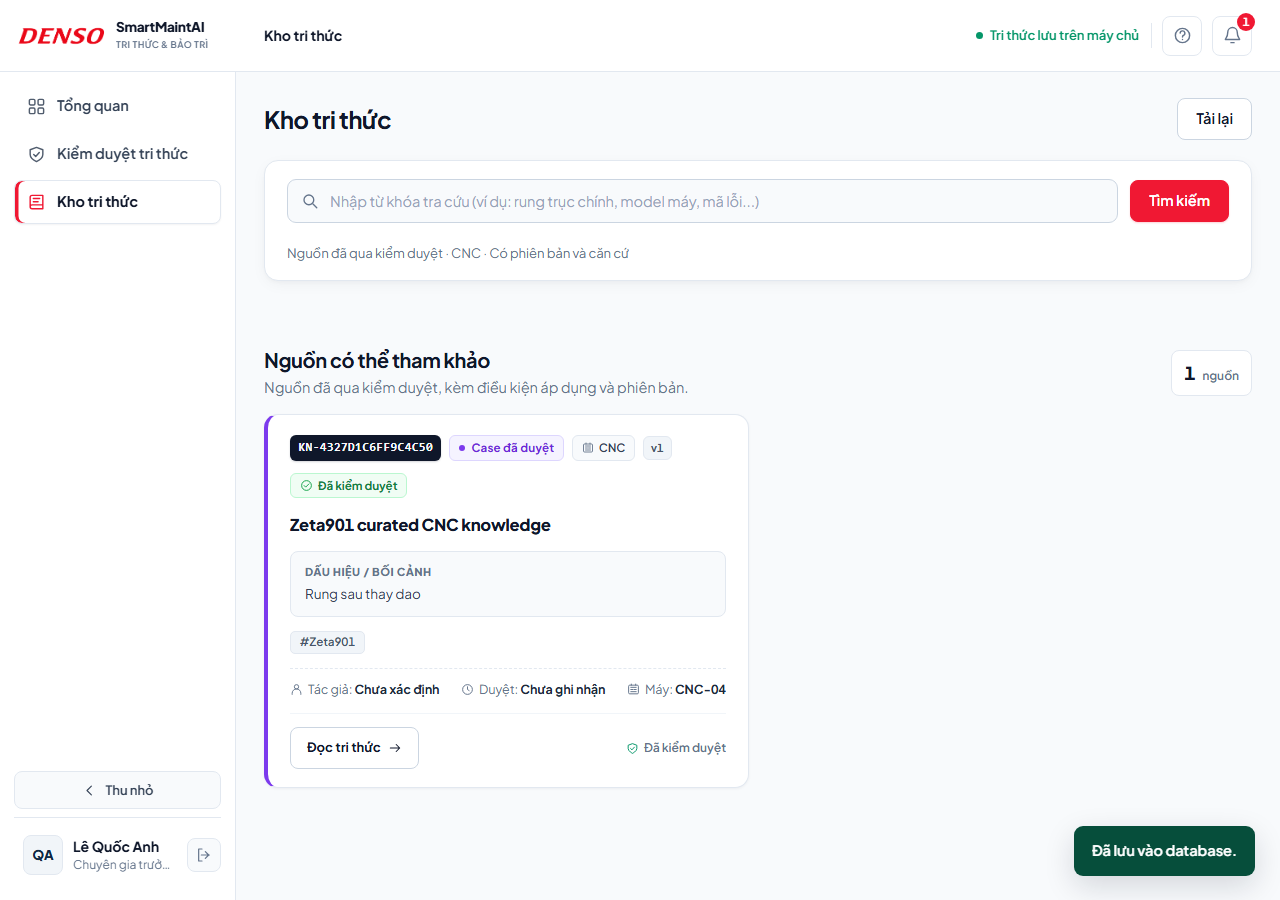
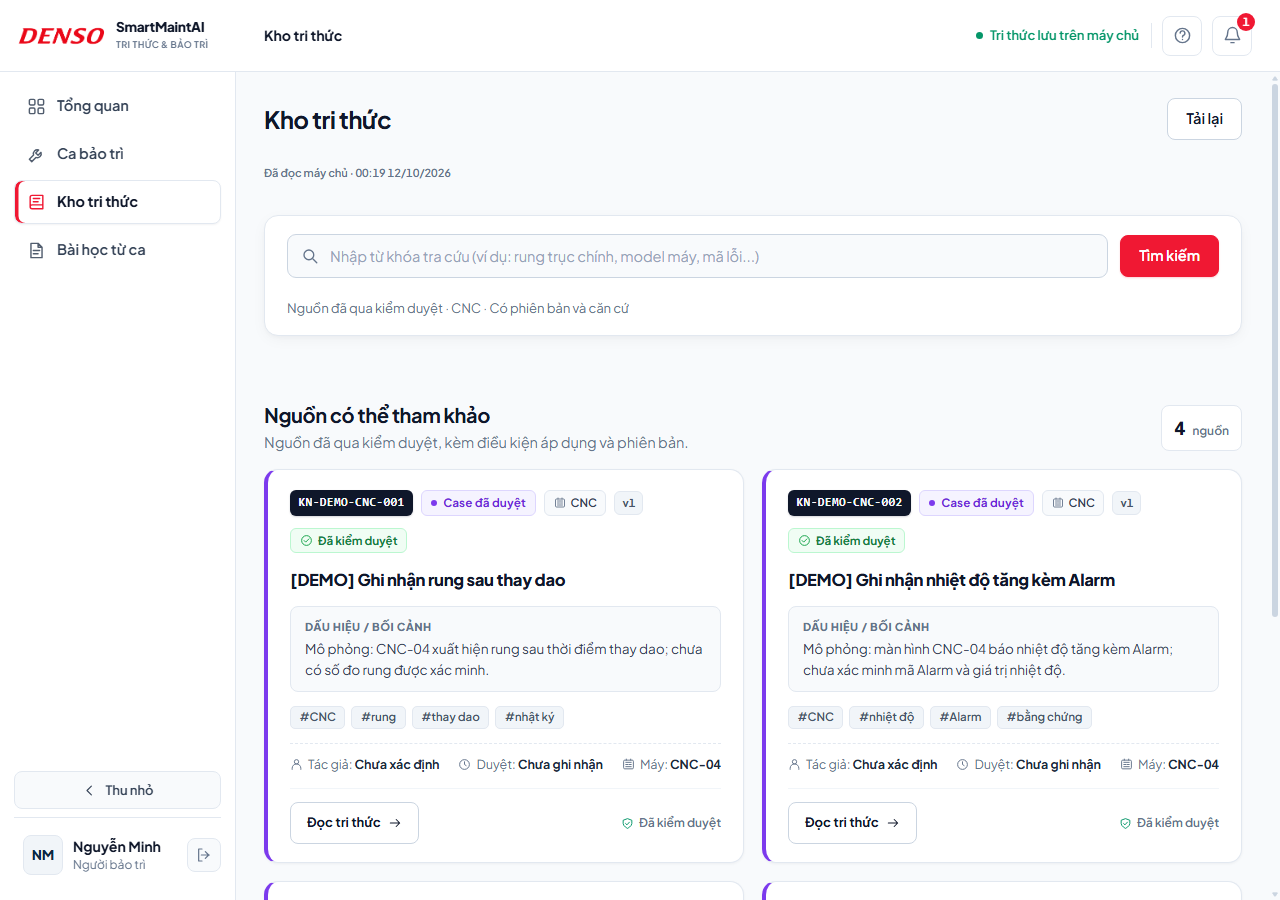
Align project documentation and screenshots with current frontend

diff --git a/backend/tools/browser_smoke.py b/backend/tools/browser_smoke.py
@@ -441,10 +441,12 @@ def main():
             wait("!!document.querySelector('[data-page=proposal][data-id=DP-DEMO-CNC-003]')")
             for number in ['001', '002', '003']:
                 assert evaluate("!!document.querySelector('[data-page=proposal][data-id=DP-DEMO-CNC-"+number+"]')")
+            documentation_screenshot('case-lessons.png')
             navigate("SM.go('proposal','DP-DEMO-CNC-001')")
             wait("document.querySelector('#knowledge-api-view')?.textContent.includes('RP-DEMO-CNC-001')")
             navigate("SM.go('library')")
             wait("document.querySelectorAll('.library-card').length===4")
+            documentation_screenshot('knowledge-library.png')
             evaluate("const f=document.querySelector('[data-form=database-library-search]');f.querySelector('[name=query]').value='Alarm';f.requestSubmit()")
             assert evaluate("document.querySelectorAll('.library-card').length===1")
             assert evaluate("document.querySelector('.library-card').textContent.includes('nhiệt độ')")

diff --git a/backend/README.md b/backend/README.md
@@ -1,127 +1,70 @@
-# Backend SmartMaint — API cho bản demo
+# Backend DENSO SmartMaintAI
 
-Khởi động local hoặc hosted tự bổ sung một lần **3 bài học từ ca và 3 nguồn tri thức đã xuất bản**, kèm báo cáo nguồn mô phỏng. Xem [dữ liệu mẫu](../docs/guides/DENSO-DEMO-SAMPLE-DATA.md). Lệnh `py -m backend.demo_knowledge` thêm mẫu vào database đã khởi tạo theo cấu hình hiện tại, giữ nguyên dữ liệu có sẵn.
+FastAPI phục vụ frontend mới và API cùng origin. Giao diện chính ở `/`; `/workspace` dành cho chẩn đoán và phục hồi phiên. Xem [README dự án](../README.md), [bản đồ frontend](../frontend/README.md) và [bàn giao hiện tại](../docs/guides/DEMO-HANDOVER.md).
 
-Tình trạng hiện tại: [bàn giao demo](../docs/guides/DEMO-HANDOVER.md). Xem [README dự án](../README.md) để cài trên máy mới. Dùng `Cai-dat-demo.cmd` rồi `Chay-demo.cmd`; máy chủ mặc định ở cổng 8001. Các mô tả theo số bước bên dưới ghi lại quá trình triển khai trước đây.
+## Chạy từ thư mục gốc
 
-RAG hiện có [Gemini Embedding + sqlite-vec + Gemini](../docs/guides/DENSO-RAG-VECTOR-GEMINI.md). Ứng dụng đọc `.env`; cần điền GEMINI_API_KEY để dùng API thật. `Chay-demo.cmd` chuẩn bị chỉ mục khi có key; `py -m backend.rag.check` kiểm tra live rõ ràng. Các ghi chú bước 6–9 bên dưới mô tả chế độ demo từ khóa/mẫu trước khi bổ sung vector.
-
-Trang chính `/` giữ giao diện SmartMaint gốc. Tổng quan, hồ sơ công việc, hỗ trợ/xác nhận, hồ sơ tham gia, đề xuất/kiểm duyệt và kho tri thức đã dùng API/SQLite theo quyền. PM và thông báo prototype còn mô phỏng. Hồ sơ cũ trong localStorage được giữ riêng để xem/nhập, không tự đồng bộ sang database. Workspace độc lập được giữ tại `/workspace`. Dùng `py -m backend.tools.browser_smoke --original-ui` để kiểm tra giao diện tích hợp trên DB riêng.
-
-Bổ sung [4 hồ sơ CNC và 6 tài liệu tra cứu mẫu](../docs/guides/DENSO-DEMO-SAMPLE-DATA.md). Lệnh `py -m backend.manage add-samples` thêm hồ sơ vào DB đã init-demo, không ghi đè hồ sơ hiện có. Bộ nguồn tra cứu tổng cộng 14 tài liệu.
-
-Demo hiện bắt đầu bằng **Chọn vai trò → Vào hệ thống**, không cần mật khẩu. Người bảo trì dùng tài khoản mẫu `minh`, chuyên gia dùng `hai`, chuyên gia trưởng dùng `anh`. Quyền và dữ liệu hiện có được giữ nguyên; `anh` chưa được cấp hồ sơ BM-26028. Nút **Đổi vai trò** quay về màn hình chọn. Mỗi lần tải trang sẽ hiện màn hình chọn vai trò.
-
-Để bật lại màn hình đăng nhập mật khẩu, đặt `$env:SMARTMAINT_DEMO_ROLE_SELECTION='0'` trước khi khởi động backend. Chế độ chọn vai trò không cần mật khẩu chỉ dành cho demo local; khi tắt, API chọn vai trò trả 404. Mật khẩu cũ không bị thay đổi.
-
-Bước 9: [báo cáo 10 câu hỏi và kịch bản demo 5 phút](../docs/history/DENSO-STEP9-DEMO-REVIEW.md). Chạy `py -m backend.tools.demo_check` để kiểm tra lại chế độ mẫu qua API trên DB riêng; không gọi Gemini và không sửa dữ liệu hiện có.
-
-Bước 8 thêm **Trả lời từ nguồn**: mặc định trích tài liệu theo mẫu, chưa dùng AI. Có adapter Gemini tùy chọn qua biến môi trường; chưa có cấu hình model thật trong môi trường hiện tại. Xem [hướng dẫn và giới hạn bước 8](../docs/history/DENSO-STEP8-ANSWERS.md).
-
-**Ưu tiên hiện tại: demo đơn giản.** Giữ SQLite, dữ liệu mẫu và HozenDX mock; chưa cần PostgreSQL, SSO hoặc tích hợp thật. Xem [phạm vi và thứ tự làm tiếp cho demo](../docs/history/DENSO-DEMO-PLAN.md). Luồng chính dùng hồ sơ CNC có sẵn; các trường bổ sung được thu gọn.
-
-Bước 7 có ô **Tra cứu tài liệu CNC mẫu** trong hồ sơ: tìm từ khóa trên bộ nguồn mô phỏng, đọc đoạn trích và mở toàn bộ tài liệu đúng phiên bản. Xem [hướng dẫn/API tra cứu](../docs/history/DENSO-STEP7-SEARCH.md). Chưa dùng LLM.
-
-Backend demo CNC có quyền theo máy/hồ sơ, adapter HozenDX mock, dữ liệu có phiên bản, nhật ký nhiều đợt, báo cáo và tri thức được duyệt. RAG hiện có Gemini và vector tùy cấu hình; chưa có kết nối HozenDX/AIHO thật. Chi tiết schema ban đầu và migration tại [mô hình dữ liệu](../docs/design/DENSO-STEP5-DATA-MODEL.md); luồng hiện tại nằm trong tài liệu bàn giao.
-
-## Chạy trên Windows / PowerShell
-
-Chạy trong `D:\demo\demo`. Máy hiện tại dùng `py` (lệnh `python` trỏ tới alias Microsoft Store).
+Trên Windows, chạy `Cai-dat-demo.cmd` lần đầu, sau đó `Chay-demo.cmd`. Hoặc:
 
 ```powershell
 py -m venv .venv
 .\.venv\Scripts\python.exe -m pip install -r backend/requirements.txt
-.\.venv\Scripts\python.exe -m backend.manage init-demo
-.\.venv\Scripts\python.exe -m uvicorn backend.main:app --host 127.0.0.1 --port 8000
+.\.venv\Scripts\python.exe -m backend.setup_demo
+.\.venv\Scripts\python.exe -m backend.launch_demo
 ```
 
-Nếu dùng các thư viện Python đã có sẵn trên máy, có thể chạy trực tiếp:
+Mở **http://127.0.0.1:8001/**, chọn vai trò rồi vào demo. Máy chủ cần chạy trong suốt thời gian sử dụng. Dùng lệnh module ở trên, không chạy `launch_demo.py` như một file rời.
 
-```powershell
-py -m backend.manage init-demo
-py -m uvicorn backend.main:app --host 127.0.0.1 --port 8000
-```
+Backend khởi tạo 5 tài khoản và 8 hồ sơ mẫu: 5 hồ sơ ban đầu, 3 ca đã kết thúc kèm bài học/tri thức mô phỏng đã xuất bản. Khởi động lại giữ nguyên hồ sơ, mật khẩu và các mẫu đã có. [Dữ liệu mẫu](../docs/guides/DENSO-DEMO-SAMPLE-DATA.md).
 
-Lệnh `init-demo` in mật khẩu ngẫu nhiên của từng tài khoản mới **một lần**; giữ lại trước khi đóng terminal. Lệnh chạy lại không đổi mật khẩu/ghi đè dữ liệu. Mật khẩu trong DB là PBKDF2-SHA256 có salt riêng, 600.000 vòng; không có mật khẩu mặc định hoặc API tự đăng ký/tự cấp quyền.
+## Giao diện và nghiệp vụ
 
-Nếu quên mật khẩu demo, chạy tại máy có quyền đọc DB:
-
-```powershell
-py -m backend.manage reset-demo-password --username minh
-```
-
-Lệnh này in mật khẩu mới, thu hồi phiên cũ của đúng tài khoản và giữ nguyên hồ sơ/quyền. Có thể chọn một trong các username demo trong bảng dưới; đây không phải API đặt lại mật khẩu công khai.
-
-- Workspace kết nối backend: <http://127.0.0.1:8000/>
-- Prototype cũ độc lập/localStorage: <http://127.0.0.1:8000/prototype-demo>
-- OpenAPI: <http://127.0.0.1:8000/docs>
-
-Không chạy `http.server` tại project root để phục vụ backend: cần API FastAPI và allowlist file, không công khai thư mục DB/fixture.
-
-## Tài khoản và quyền demo
-
-| Tài khoản | Vai trò | Máy CNC-04 | Case BM-26028 | Sửa bối cảnh |
-|---|---|---|---|---|
-| minh | Người bảo trì | Có | Chủ hồ sơ | Có nếu công việc chưa kết thúc |
-| hai | Chuyên gia | Có | Người tham gia | Không |
-| anh | Chuyên gia trưởng | Có | Không được cấp | Không |
-| nam | Chuyên gia | Có | Không tham gia | Không |
-| lan | Người bảo trì | Không được cấp CNC | Không | Không |
-
-Đây là phân quyền **seed riêng cho backend demo**, không suy ra quyền thật từ tài khoản prototype. Quyền được đọc từ DB mỗi request; biết caseId hoặc thay role ở trình duyệt không cấp quyền. Chuyên gia trưởng không mặc định đọc mọi case. Tài khoản minh có thể tạo hồ sơ BM mới khi xác nhận máy demo, nêu lý do nếu máy đã có hồ sơ mở. PM tạo mới, quản trị người dùng/quyền và SSO chưa nằm trong bước 4.
-
-## API
-
-| API | Điều kiện |
+| Vai trò | Menu chính |
 |---|---|
-| `GET /api/health` | Công khai; chỉ trạng thái demo |
-| `POST /api/auth/login` | Tài khoản/mật khẩu, không nhận role/userId để cấp quyền |
-| `GET /api/auth/me` | Session hợp lệ; trả danh tính/quyền và CSRF token |
-| `POST /api/auth/logout` | Session + `X-CSRF-Token`; thu hồi session ở server |
-| `GET /api/assets` | Session; chỉ máy được cấp quyền |
-| `GET /api/integration/hozendx/assets/{assetId}` | Session + quyền máy; fixture mock, không kết nối nhà máy |
-| `GET /api/cases` | Session + quyền máy + tham gia hồ sơ + vai trò phù hợp |
-| `GET /api/cases/{id}` | Điều kiện như trên; không lộ hồ sơ ngoài phạm vi |
-| `POST /api/cases` | maintenance + quyền máy + CSRF + Idempotency-Key + xác nhận máy demo |
-| `PUT /api/cases/{id}/context` | Chủ hồ sơ maintenance + CSRF + Idempotency-Key + đúng hai revision |
+| Người bảo trì — Nguyễn Minh | Tổng quan, Ca bảo trì, Kho tri thức, Bài học từ ca |
+| Chuyên gia — Trần Văn Hải | Tổng quan, Hỗ trợ hiện trường, Hồ sơ tham gia, Tri thức của tôi, Kho tri thức |
+| Chuyên gia trưởng — Lê Quốc Anh | Tổng quan, Kiểm duyệt tri thức, Kho tri thức |
 
-`ContextUpdate` cần `expectedContextRevision`, `expectedCaseDataRevision`, `context`. Schema context gồm symptom và các trường Alarm/bộ phận/chế độ/model sản phẩm/tốc độ/ca/thời điểm/môi trường/5M1E; không chấp nhận trường role/owner/machineState để sửa quyền hoặc trạng thái bằng đường này.
+Chi tiết ca có bốn tab: **Bối cảnh & máy**, **Tra cứu & căn cứ**, **Xử lý & nhật ký**, **Báo cáo tổng kết**. Tổng quan, BM và tri thức dùng API theo quyền. `frontend/prototype/` là tên thư mục lịch sử, chứa các adapter đang dùng. LocalStorage của giao diện tham chiếu không phải database nghiệp vụ của bản này.
 
-Session là token ngẫu nhiên trong cookie HttpOnly/SameSite=Strict; server chỉ lưu hash token, hết hạn sau 8 giờ. CSRF token lưu trong bộ nhớ giao diện; mutations phải gửi header đúng session, và Origin trình duyệt phải cùng origin. Logout thu hồi token, không chỉ xóa cookie. Nếu triển khai HTTPS đặt `SMARTMAINT_SECURE_COOKIE=1` để bật Secure; hiện chỉ chạy local demo, chưa cấu hình vận hành nhà máy. Không bật CORS rộng hoặc lưu token đăng nhập trong localStorage.
+Luồng BM: tạo hồ sơ → mở đợt → hỗ trợ/nhật ký/xác nhận đóng góp → kết thúc đợt và công việc → lập/xác nhận báo cáo → đề xuất → duyệt độc lập → xuất bản → tra cứu có nguồn. [Kịch bản BM](../docs/guides/BM-WORKFLOW-DEMO.md) · [Tri thức/RAG](../docs/guides/KNOWLEDGE-RAG-DEMO.md).
 
-Idempotency key có phạm vi người dùng, gắn loại thao tác/đối tượng/payload; cùng key/payload trả cùng kết quả, khác payload trả 409. Ghi nghiệp vụ/audit/kết quả thao tác trong cùng transaction SQLite. Replay cũng kiểm tra quyền hiện tại. Sau replay UI đọc lại bản server vì dữ liệu có thể đã tiến lên revision khác. Kho operation hiện giữ toàn bộ cho demo; dọn dữ liệu/lưu trữ theo chính sách khi triển khai thật.
+## Lưu trữ và cấu hình
 
-## Dữ liệu và giới hạn bước này
+- `SMARTMAINT_STORAGE=sqlite`: database Python local mặc định `.runtime/smartmaint.sqlite3`; migration có backup khi cần nâng cấp.
+- `SMARTMAINT_STORAGE=turso`: cần `TURSO_DATABASE_URL` và `TURSO_AUTH_TOKEN` riêng phía server; libSQL qua HTTPS dùng chung theo quyền. Không tự đồng bộ SQLite lên Turso, không âm thầm ghi local khi cloud lỗi.
+- Docker local mặc định dùng volume `smartmaint-data`; entry point container là `backend.serve`.
+- `.env` chứa cấu hình riêng, không đưa lên GitHub. [Hosting Render + Turso](../docs/guides/LIVE-DEMO-DEPLOYMENT.md).
 
-DB mặc định `.runtime/smartmaint.sqlite3`, có thể đổi bằng `SMARTMAINT_DB`. File DB/phiên/password hash không được phục vụ qua static route. Hồ sơ localStorage chỉ chuyển sang database khi người dùng chọn nhập; các màn hình BM và tri thức hiện dùng chung backend.
+Mặc định **từ khóa + trả lời mẫu**, không cần API key. Gemini/Gemini Embedding/sqlite-vec là tùy chọn; [cách cấu hình và kiểm tra](../docs/guides/DENSO-RAG-VECTOR-GEMINI.md). Vector index là cache có thể tạo lại; báo cáo, đề xuất và tri thức nằm trong database nghiệp vụ.
 
-Case seed là snapshot demo dựa trên BM-26028. Nhật ký hỗ trợ thêm/đính chính theo revision và xem lịch sử. Chủ hồ sơ mở/kết thúc đợt; chuyên gia xác nhận nhóm ghi nhận mình thực hiện. Bối cảnh có phiên bản; trạng thái máy/công việc/báo cáo riêng biệt. Đã có luồng báo cáo, đề xuất, duyệt độc lập và xuất bản tri thức vào RAG. Database nghiệp vụ dùng SQLite, vector dùng sqlite-vec; chưa triển khai PostgreSQL/pgvector.
+## Các module
 
-DB cũ tự migration khi chạy backend; có backup trước nâng cấp nếu có hồ sơ. Có thể chạy `py -m backend.manage migrate` để xem version và đường dẫn backup. Migration giữ tài khoản, mật khẩu, audit và dữ liệu cũ. Xem quy tắc và API bổ sung trong tài liệu bước 5.
+| File/thư mục | Trách nhiệm |
+|---|---|
+| `main.py`, `security.py`, `hosting.py` | API, phiên/quyền, CSRF, static allowlist và host/origin |
+| `store.py`, `remote_store.py`, `migrate.py`, `migrations/` | SQLite/libSQL, migration và backup |
+| `domain.py`, `journal.py`, `workflow.py` | Bối cảnh, đợt, nhật ký, hỗ trợ, đóng việc và báo cáo |
+| `knowledge.py` | Đề xuất, duyệt độc lập và xuất bản |
+| `rag/` | Nguồn khả dụng, truy xuất và trả lời có citation |
+| `hozendx.py` | Thiết bị CNC-04 mô phỏng |
+| `setup_demo.py`, `launch_demo.py`, `serve.py` | Thiết lập, khởi động local và container |
+| `manage.py`, `demo_knowledge.py` | Quản lý dữ liệu mẫu |
+| `tools/`, `tests/` | Công cụ kiểm tra/xuất dữ liệu và kiểm thử |
 
-Workspace bảo vệ nội dung chưa lưu khi chuyển panel/tải lại; lưu chỉ hiện thành công sau API xác nhận. Phiên hết hạn giữ DOM đang nhập trong tab và yêu cầu đăng nhập lại; chỉ phục hồi khi cùng user, server vẫn kiểm tra revision/quyền. Đây chưa phải chế độ offline. Xung đột 409 giữ bản đang nhập; người dùng sao chép phần cần giữ rồi tải bản server để đối chiếu, chưa có giao diện merge tự động.
+Ghi nghiệp vụ cần đúng phiên, quyền, CSRF và revision; hỗ trợ chống gửi lặp bằng `Idempotency-Key`. Token phiên lưu dưới dạng hash phía server, cookie HttpOnly/SameSite; HTTPS bật Secure. Static routes không phục vụ `.env`, database hoặc mã Python.
 
-Pilot thật cần SSO hoặc quản lý tài khoản được vận hành, HTTPS, phạm vi quyền thực tế, dữ liệu được duyệt, migration/backup và cấu hình tích hợp đã xác minh. Bước này là nền local demo, không xác nhận sẵn sàng production.
-
-## Kiểm thử
+## Kiểm tra
 
 ```powershell
 py -m pip install -r backend/requirements-dev.txt
 py -m pytest backend/tests -q
+py -m backend.tools.demo_check
+py -m backend.tools.browser_smoke --original-ui
 ```
 
-Kiểm thử trình duyệt tùy chọn trên Windows có Edge:
+Kiểm thử dùng SQLite/profile riêng, không ghi vào database cloud. Browser smoke cần Edge và `websocket-client`; `--docs-screenshots` cập nhật ảnh README. `py -m backend.tools.check_storage` đọc trạng thái database đang cấu hình; `export_cases` xuất SQLite local thành HTML.
 
-```powershell
-py -m backend.tools.browser_smoke
-```
+Bộ chọn vai trò dùng tài khoản chung để trình diễn, chưa phải xác thực production. Có thể tắt bằng `SMARTMAINT_DEMO_ROLE_SELECTION=0`; API đăng nhập mật khẩu vẫn được hỗ trợ. `py -m backend.manage reset-demo-password --username minh` đặt lại mật khẩu và thu hồi phiên cũ; không cần lệnh này khi chỉ đổi vai trò.
 
-Lệnh này tự chạy backend tạm và Edge headless, dùng DB/profile riêng trong `.runtime/browser-smoke-*`; kiểm tra luồng đăng nhập, lưu, phục hồi phiên, tạo hồ sơ và phân quyền, rồi dừng hai process. Screenshot lưu cùng thư mục. Không dùng hoặc đổi dữ liệu demo mặc định. Có thể cấu hình đường dẫn Edge bằng `SMARTMAINT_EDGE`.
-
-Bộ test dùng SQLite tạm và TestClient, kiểm tra quyền, session/thu hồi, cookie/CSRF, revision, chống gửi lặp, snapshot, persistence và file private. Theo [tài liệu FastAPI Testing](https://fastapi.tiangolo.com/tutorial/testing/), TestClient gọi ứng dụng ASGI trực tiếp; cần thêm kiểm tra chạy HTTP/browser thực tế để đánh giá giao diện đầy đủ.
-
-## Database từ xa cho demo miễn phí
-
-Mặc định `SMARTMAINT_STORAGE=sqlite`. Khi đặt `SMARTMAINT_STORAGE=turso`, `TURSO_DATABASE_URL` và `TURSO_AUTH_TOKEN`, các module nghiệp vụ dùng `store.connect` → adapter libSQL HTTP v2. Không fallback ghi vào file tạm. Database remote mới được seed một lần; database hiện có phải ở schema v5. SQLite local vẫn dùng migration/backup cũ.
-
-Chạy `python -m backend.tools.check_storage` để đọc trạng thái kết nối/schema và đếm dữ liệu. `export_cases` vẫn là công cụ SQLite local. Vector index vẫn là cache sqlite-vec local và có thể tạo lại từ nguồn đã xuất bản. Hướng dẫn: [Live Demo miễn phí](../docs/guides/LIVE-DEMO-DEPLOYMENT.md).
+PM/thông báo chưa có đầy đủ backend. AI soạn báo cáo, SSO và HozenDX thật chưa được triển khai. [Đối chiếu sơ đồ](../docs/design/WORKFLOW-CONFORMANCE.md) mô tả phạm vi; `docs/history/` lưu các bước cũ.

diff --git a/docs/guides/DEMO-HANDOVER.md b/docs/guides/DEMO-HANDOVER.md
@@ -1,47 +1,40 @@
-# Bàn giao bản demo — bước 5
+# Bàn giao demo DENSO SmartMaintAI
 
-Ngày kiểm tra: 11/10/2026. Bước 5 hoàn tất trong phạm vi demo chạy local và chuẩn bị mã nguồn để chia sẻ. Link Live Demo vẫn cần được xác minh sau khi triển khai hosting.
+Cập nhật **12/10/2026**, sau khi đổi frontend theo mẫu Netlify và thêm bài học/tri thức. [Live Demo](https://denso-smartmaint-demo.onrender.com/) · [GitHub](https://github.com/nguyenhoangduong17122005-glitch/DENSO-SmartMaintAI) · [README chính](../../README.md).
 
-Bổ sung hồ sơ nộp dự án cùng ngày: README có kiến trúc/luồng dữ liệu Mermaid, 4 ảnh chụp thực tế và hướng dẫn Docker. Đã thêm Dockerfile, Compose, Blueprint Render tùy chọn và cấu hình host/origin HTTPS. Bộ test sau bổ sung: **170 passed**; browser smoke với ảnh README đạt. Docker build/chạy và giữ dữ liệu sau restart đã [đạt trên CI](https://github.com/nguyenhoangduong17122005-glitch/DENSO-SmartMaintAI/actions/runs/38124622577); chưa có URL Live Demo đã xuất bản. Repo đích hiện đã được cung cấp: [DENSO-SmartMaintAI](https://github.com/nguyenhoangduong17122005-glitch/DENSO-SmartMaintAI).
+## Giao diện hiện tại
 
-Bổ sung phương án miễn phí: Render Free + Turso Free (libSQL), adapter HTTPS và kiểm thử lưu/rollback/chống lặp, báo cáo → duyệt → xuất bản → RAG. [Kiểm tra với server libSQL thật trong CI đã đạt](https://github.com/nguyenhoangduong17122005-glitch/DENSO-SmartMaintAI/actions/runs/38131288432). Database cloud cần được tạo và cấu hình riêng; chưa xác minh triển khai cloud. Xem [hướng dẫn Live Demo](LIVE-DEMO-DEPLOYMENT.md).
+- Người bảo trì: **Tổng quan**, **Ca bảo trì**, **Kho tri thức**, **Bài học từ ca**.
+- Chuyên gia: **Hỗ trợ hiện trường**, **Hồ sơ tham gia**, **Tri thức của tôi**, cùng tổng quan và kho tri thức.
+- Chuyên gia trưởng: **Tổng quan**, **Kiểm duyệt tri thức**, **Kho tri thức**.
+- Chi tiết ca: **Bối cảnh & máy**, **Tra cứu & căn cứ**, **Xử lý & nhật ký**, **Báo cáo tổng kết**.
 
-## Năm bước đã thực hiện
+Thiết kế dùng nền sáng, điểm nhấn đỏ, font Plus Jakarta Sans và ảnh/logo cục bộ. Frontend gọi API đọc/lưu BM và tri thức. Chuyển tab giữ phần đang nhập nhưng chưa tự lưu. Tiêu đề phụ “Đề xuất của tôi” đã bỏ trên màn hình **Bài học từ ca**. [Bản đồ frontend](../../frontend/README.md).
 
-1. Cấu hình và kiểm tra Gemini, embedding và chỉ mục vector bằng sqlite-vec.
-2. Đồng bộ các màn hình nghiệp vụ BM với SQLite và quyền tài khoản.
-3. Hoàn thiện luồng BM: mời/nhận hỗ trợ, nhật ký, xác nhận đóng góp, kết thúc công việc và báo cáo có phiên bản.
-4. Tạo đề xuất từ báo cáo đã xác nhận, duyệt độc lập và xuất bản nguồn vào RAG.
-5. Kiểm thử, bổ sung bộ cài trên máy mới, hướng dẫn sử dụng và chuẩn bị bản chia sẻ không chứa cấu hình riêng/database cá nhân.
+## Dữ liệu và cách chạy
 
-## Kết quả kiểm tra
+Máy mới: clone/giải nén → `Cai-dat-demo.cmd` → `Chay-demo.cmd` → **http://127.0.0.1:8001/** → chọn vai trò. Hoặc dùng Docker theo README. Mặc định từ khóa/trả lời mẫu không cần Gemini.
 
-Sau khi đổi giao diện theo Netlify: tổng quan hai cột, thẻ ca, bộ lọc, chi tiết bốn tab và kho tri thức dùng dữ liệu API. Browser smoke đã đạt với kiểm tra bố cục, chuyển tab giữ dữ liệu nhập, điện thoại và luồng BM → tri thức → RAG; 9 kiểm thử route/hosting liên quan đạt. Số 170 bên dưới là kết quả bộ test của lần bàn giao trước, không phải lần chạy lại sau mỗi thay đổi giao diện. Xem [bản đồ frontend](../../frontend/README.md).
+Ứng dụng tạo một lần **5 tài khoản và 8 hồ sơ mẫu**: 5 hồ sơ ban đầu, 3 ca đã kết thúc có báo cáo xác nhận, 3 bài học đã duyệt và 3 nguồn xuất bản. Các mẫu mới thuộc Nguyễn Minh, có `[DEMO]` và giới hạn áp dụng. Khởi động lại không ghi đè dữ liệu hoặc tự xuất bản lại nguồn đã thu hồi. [Mã mẫu và nội dung](DENSO-DEMO-SAMPLE-DATA.md).
 
-| Kiểm tra | Kết quả |
+| Bản chạy | Database nghiệp vụ |
 |---|---|
-| Bộ test offline `py -m pytest backend/tests -q` | 170 passed (bổ sung hosting và remote storage) |
-| Kiểm tra giao diện bằng Edge `py -m backend.tools.browser_smoke --original-ui` | Đạt, dùng database/profile riêng |
-| Bản sao mới không có `.env`/database | Tạo cấu hình offline, 5 tài khoản và 5 hồ sơ mẫu |
-| Chạy khởi tạo lần hai | Không tạo dữ liệu trùng; không thay cấu hình, mật khẩu hoặc hồ sơ đã có |
-| API trên bản sao mới | Trang chính, chọn vai trò và mở hồ sơ mẫu hoạt động |
-| File riêng qua HTTP | `.env`, database và mã backend trả 404 |
-| Gói chia sẻ | Không chứa `.env`, `.runtime`, `.venv`, database hoặc API key hiện dùng |
+| Python local mặc định | `.runtime/smartmaint.sqlite3` |
+| Docker local mặc định | Volume `smartmaint-data` |
+| Live Demo Render | Turso/libSQL dùng chung theo quyền |
 
-Kiểm tra giao diện gồm tạo/lưu/tải lại dữ liệu, đổi vai trò, hỗ trợ BM, báo cáo, đề xuất/duyệt tri thức và tra cứu nguồn đã xuất bản. Bộ test tự động còn kiểm tra phạm vi quyền, CSRF, lịch sử phiên bản và lỗi khi xuất bản/index.
+Các database này không tự đồng bộ. Trên Live Demo, người khác có thể thấy dữ liệu đã lưu nếu có quyền. Mở SQLite local bằng SQLite Viewer, không mở dưới dạng văn bản.
 
-Gemini thật đã được kiểm tra ở các bước trước trong cùng phiên làm việc: tìm kiếm `vector_search`, sinh câu trả lời `gemini`, truy xuất và trích dẫn được tri thức mới đã duyệt trên database riêng. Bước 5 không gọi lại provider để tránh dùng thêm hạn mức. Máy người nhận phải cấu hình key riêng và chạy `scripts/windows/Kiem-tra-RAG.cmd` để xác minh kết nối của họ.
+## Kiểm chứng
 
-Bản sao mới được kiểm tra bằng Python và các thư viện đã cài trên máy phát triển. Chưa kiểm tra tải/cài thư viện từ Internet trên một máy Windows khác. File `Cai-dat-demo.cmd` cài đúng các phiên bản trong `backend/requirements.txt` vào `.venv`.
+Các lần kiểm tra trước bao gồm browser smoke, luồng BM → báo cáo → duyệt → tri thức → RAG, adapter Turso và [Docker/libSQL trong CI](https://github.com/nguyenhoangduong17122005-glitch/DENSO-SmartMaintAI/actions/workflows/docker-smoke.yml). Kết quả rà soát hiện tại nằm trong [README](../../README.md#kiểm-thử-và-phạm-vi-demo).
 
-## Cách chạy và bàn giao
+Ngày 12/10/2026 đã đọc API Live Demo, xác nhận đủ **3 bài học mẫu, 3 nguồn xuất bản và báo cáo nguồn đã xác nhận**. Đây không phải kiểm thử toàn bộ nghiệp vụ cloud. Browser smoke dùng database/profile riêng để kiểm tra giao diện và lưu dữ liệu.
 
-Trên máy mới: giải nén/clone → `Cai-dat-demo.cmd` → `Chay-demo.cmd` → chọn vai trò. Các lần sau chỉ chạy `Chay-demo.cmd`. Hướng dẫn chi tiết nằm trong [README](../../README.md), [kịch bản BM](BM-WORKFLOW-DEMO.md), [tri thức/RAG](KNOWLEDGE-RAG-DEMO.md) và [chia sẻ GitHub](GITHUB-SHARING.md).
+## Phạm vi bàn giao
 
-Mỗi máy có database riêng trong `.runtime/`. Mở `.runtime/smartmaint.sqlite3` bằng SQLite Viewer để đối chiếu hồ sơ. Không mở SQLite dưới dạng văn bản. Khi kiểm tra lưu dữ liệu, tạo hồ sơ có tên riêng, tải lại trang rồi khởi động lại máy chủ và tìm lại hồ sơ.
+Đã có BM, bối cảnh có phiên bản, nhật ký theo đợt, mời/nhận hỗ trợ, xác nhận đóng góp, đóng công việc, báo cáo, đề xuất, duyệt độc lập và xuất bản. RAG dùng từ khóa/mẫu hoặc Gemini/vector tùy cấu hình.
 
-## Giới hạn còn lại
+HozenDX và dữ liệu CNC là mô phỏng. PM/thông báo chưa có đầy đủ backend; chưa có AI soạn báo cáo, SSO hoặc xác thực production. Cập nhật/liên kết/rút tri thức và đính chính báo cáo sau chốt còn giới hạn. Bộ chọn vai trò dùng chung để trình diễn local và website công khai. [Đối chiếu sơ đồ](../design/WORKFLOW-CONFORMANCE.md).
 
-HozenDX dùng mock; dữ liệu CNC là mô phỏng. PM và thông báo prototype chưa nối đầy đủ vào backend. Tri thức hiện tạo mới từ báo cáo BM, chưa hỗ trợ thay thế/rút tri thức đã xuất bản. Bộ chọn vai trò phục vụ demo local. Triển khai nhiều người dùng chung trên Internet, xác thực production và tích hợp HozenDX thật là phạm vi tiếp theo.
-
-GitHub chia sẻ mã nguồn qua repo đích nêu ở đầu tài liệu. Một URL dùng chung cho cả nhóm cần triển khai backend, không chỉ bật GitHub Pages; xem hướng dẫn Live Demo để thực hiện bước hosting còn lại.
+Không đưa `.env`, `.runtime`, `.venv`, token, API key hoặc database cá nhân vào gói nộp. Giữ migration, module prototype đang nạp và giấy phép font. Hướng dẫn: [BM](BM-WORKFLOW-DEMO.md), [tri thức/RAG](KNOWLEDGE-RAG-DEMO.md), [hosting](LIVE-DEMO-DEPLOYMENT.md).

diff --git a/docs/guides/GITHUB-SHARING.md b/docs/guides/GITHUB-SHARING.md
@@ -4,7 +4,7 @@ Bước 5 chốt bản demo: kiểm tra luồng nghiệp vụ, tài liệu sử 
 
 ## Nội dung đưa lên repo
 
-Đưa `backend/`, `frontend/`, `fixtures/`, `docs/`, các file `.cmd`, `.env.example`, `.gitignore` và `README.md` lên repo. Dữ liệu mẫu trong `fixtures/` là dữ liệu mô phỏng để người tải có thể tự khởi tạo database.
+Đưa `backend/`, `frontend/`, `fixtures/`, `docs/`, `scripts/`, `.github/`, các file `.cmd`, `.env.example`, `.gitignore`, `.dockerignore`, `Dockerfile`, `compose.yaml`, `render.yaml` và `README.md` lên repo. Giữ ảnh README, font cục bộ và giấy phép font. Dữ liệu mẫu trong `fixtures/` giúp người tải tự khởi tạo database, gồm 3 bài học và 3 nguồn xuất bản trên giao diện mới.
 
 Không đưa `.env`, `.runtime/`, `.venv/`, database SQLite, log, cache hoặc bản sao lưu lên repo. `.gitignore` đã loại chúng khi dùng Git; tải file trực tiếp bằng giao diện GitHub vẫn cần tự loại các file này. Người tải repo dùng API key và database riêng; dữ liệu đang lưu trên máy tác giả không được chuyển sang máy họ.
 
@@ -33,7 +33,7 @@ Thay `OWNER/REPOSITORY` bằng repo thực tế. Git có thể yêu cầu đăng
 4. Dùng kịch bản [BM](BM-WORKFLOW-DEMO.md), tiếp tục [đề xuất và duyệt tri thức](KNOWLEDGE-RAG-DEMO.md).
 5. Muốn Gemini thật, cấu hình API key riêng theo [hướng dẫn RAG](DENSO-RAG-VECTOR-GEMINI.md). Chạy file kiểm tra RAG sẽ dùng hạn mức API.
 
-GitHub lưu mã nguồn; địa chỉ `127.0.0.1` chạy trên máy của từng người. GitHub Pages không chạy backend Python/SQLite này. Nếu cần mọi người dùng chung một URL và một database, cần một bước triển khai máy chủ riêng.
+GitHub lưu mã nguồn; địa chỉ `127.0.0.1` chạy trên máy của từng người. GitHub Pages không chạy backend Python/SQLite này. Dự án đã có [Live Demo dùng chung](https://denso-smartmaint-demo.onrender.com/) trên Render với database Turso. Bản clone chạy local không tự đồng bộ dữ liệu với website; triển khai bản riêng theo [hướng dẫn hosting](LIVE-DEMO-DEPLOYMENT.md).
 
 ## Kiểm tra trước khi bàn giao
 
@@ -50,4 +50,4 @@ GitHub lưu mã nguồn; địa chỉ `127.0.0.1` chạy trên máy của từng
 .\.venv\Scripts\python.exe -m backend.tools.browser_smoke --original-ui
 ```
 
-Browser smoke cần trình duyệt Chrome/Edge trên máy. Kiểm tra Gemini thật là bước riêng, cần key và mạng; bộ test offline không chứng minh provider đang hoạt động.
+Browser smoke mặc định cần Edge; có thể chỉ định executable qua `SMARTMAINT_EDGE`. Kiểm tra Gemini thật là bước riêng, cần key và mạng; bộ test offline không chứng minh provider đang hoạt động.

diff --git a/docs/guides/KNOWLEDGE-RAG-DEMO.md b/docs/guides/KNOWLEDGE-RAG-DEMO.md
@@ -15,6 +15,6 @@ Chạy `Chay-demo.cmd`, mở `http://127.0.0.1:8001/` và Ctrl + F5. Hoàn thàn
 8. Đổi lại **Nguyễn Minh**, mở hồ sơ CNC-04 → tab **Tra cứu & căn cứ**. Nếu dùng từ khóa, nhập `DEMO-RAG-KT04` để kiểm tra đúng nguồn. Nếu dùng vector, nhập câu đầy đủ, ví dụ `Case DEMO-RAG-KT04 rung CNC sau thay dao đã ghi nhận biện pháp và giới hạn gì?`; kết quả phụ thuộc mức tương đồng, có thể cần mô tả rõ hơn.
 9. Bấm **Trả lời từ nguồn**, kiểm tra nhãn Gemini/từ khóa dự phòng và mã trích dẫn `KN-...@1#...`. Bấm nguồn để đọc toàn văn, bao gồm giới hạn áp dụng. Kết quả của case nguồn không tự xác nhận nguyên nhân của hồ sơ đang tra cứu.
 
-SQLite lưu toàn bộ bản đề xuất, quyết định duyệt, nội dung tri thức và trạng thái xuất bản. `knowledge.active_version` chỉ được đặt khi xuất bản thành công. RAG chỉ lấy bản active, trạng thái ready và valid, đúng phạm vi máy/model. Bản đã xuất bản không sửa trực tiếp; cập nhật hoặc rút bản đã xuất bản nằm ngoài phạm vi bước demo này.
+Database nghiệp vụ (SQLite local hoặc Turso trên Live Demo) lưu bản đề xuất, quyết định duyệt, nội dung tri thức và trạng thái xuất bản. `knowledge.active_version` chỉ được đặt khi xuất bản thành công. RAG chỉ lấy bản active, trạng thái ready và valid, đúng phạm vi máy/model. Bản đã xuất bản không sửa trực tiếp; cập nhật hoặc rút bản đã xuất bản nằm ngoài phạm vi bước demo này.
 
 API và nguồn chính: `backend/knowledge.py`, `backend/rag/search.py`, `backend/rag/vectors.py`, `backend/rag/answers.py`; màn hình: `frontend/prototype/knowledge-api.js`. Các lệnh lập chỉ mục cũng đọc tri thức đã xuất bản từ SQLite.

diff --git a/docs/guides/BM-WORKFLOW-DEMO.md b/docs/guides/BM-WORKFLOW-DEMO.md
@@ -8,7 +8,7 @@ Chạy `Chay-demo.cmd`, mở `http://127.0.0.1:8001/`, nhấn Ctrl + F5 sau cậ
    - Hiện tượng: `CNC-04 rung tăng sau thay dao; chưa xác định nguyên nhân. Dữ liệu mô phỏng.`
    - Xác nhận đúng máy demo và bấm tạo. Ghi lại mã hồ sơ.
 2. Mở tab **Bối cảnh & máy** để kiểm tra bối cảnh, bấm **Lưu bối cảnh** nếu có sửa. Chuyển sang **Xử lý & nhật ký**, bấm **Bắt đầu đợt tiếp theo** nếu chưa có đợt đang làm và thêm ghi nhận hiện tượng của Nguyễn Minh. Mở **Gửi yêu cầu hỗ trợ**, chọn Trần Văn Hải, nhập `Nhờ đối chiếu nhật ký và xác minh nguồn rung` và gửi.
-3. Đổi sang **Chuyên gia — Trần Văn Hải** bằng menu tài khoản. Mở **Hỗ trợ & xác nhận** hoặc **Tổng quan**, bấm **Nhận hỗ trợ**. Trước khi nhận lời mời, chuyên gia chưa được đọc nhật ký của hồ sơ mới. Từ chối lời mời không cấp quyền hồ sơ.
+3. Đổi sang **Chuyên gia — Trần Văn Hải** bằng menu tài khoản. Mở **Hỗ trợ hiện trường** hoặc **Tổng quan**, bấm **Nhận hỗ trợ**. Trước khi nhận lời mời, chuyên gia chưa được đọc nhật ký của hồ sơ mới. Từ chối lời mời không cấp quyền hồ sơ.
 4. Mở hồ sơ vừa nhận → **Xử lý & nhật ký**, thêm ghi nhận do Trần Văn Hải thực hiện: `Đã đối chiếu tình trạng lắp dao theo dữ liệu thử nghiệm`; kết quả `Cần chạy thử và theo dõi thêm`. Ở **Xác nhận phần mình thực hiện**, chọn các ghi nhận của Hải và xác nhận.
 5. Đổi lại Nguyễn Minh, mở đúng hồ sơ. **Kết thúc đợt và bàn giao**:
    - Tóm tắt: `Đã kiểm tra và đối chiếu nhật ký cùng chuyên gia`.

diff --git a/docs/README.md b/docs/README.md
@@ -26,11 +26,11 @@ Xem [cấu trúc dự án và vị trí các file](PROJECT-STRUCTURE.md) để t
 | [Mẫu nguồn thật](data/templates/CNC-REAL-SOURCES-TEMPLATE.csv) | CSV chỉ có header, cố ý để trống cho lần thu thập sau |
 | [Kiểm kê CNC](data/inventory/CNC-SOURCE-INVENTORY.csv) | 7 đối tượng demo được kiểm kê ban đầu; không phải corpus RAG đầy đủ hiện tại |
 | [Xác minh HozenDX](data/inventory/HOZENDX-VERIFICATION.csv) | Câu hỏi và thông tin đã/chưa xác minh |
-| `fixtures/cases/` | JSON hồ sơ mẫu để khởi tạo SQLite |
+| `fixtures/cases/` | JSON hồ sơ, bài học và tri thức mẫu để khởi tạo SQLite/Turso |
 | `fixtures/hozendx/` | Adapter mock đọc thông tin thiết bị |
 | `fixtures/rag/` | Tài liệu/câu hỏi mô phỏng phục vụ RAG và kiểm tra |
-| `.runtime/smartmaint.sqlite3` | Database đang dùng, giữ nguyên vị trí |
-| `.runtime/rag-vectors.sqlite3` | Chỉ mục vector đang dùng, giữ nguyên vị trí |
+| `.runtime/smartmaint.sqlite3` | Database Python local mặc định; Live Demo dùng Turso riêng |
+| `.runtime/rag-vectors.sqlite3` | Cache vector local khi bật chế độ vector |
 | `.runtime/reports/` | Kết quả kiểm tra và bản ghi sắp xếp file, không đưa lên GitHub |
 
 Các bản sao lưu migration giữ nguyên cạnh database vì đường dẫn đã được ghi trong `schema_migrations`. Không xóa hoặc chuyển chúng như cache.

diff --git a/frontend/README.md b/frontend/README.md
@@ -4,6 +4,10 @@ Giao diện chính mở tại `/` qua FastAPI. Chạy `Chay-demo.cmd` từ gốc
 
 Thiết kế tham chiếu: [website Netlify](https://densosmartmaintai.netlify.app/) và [Hoafng3107/Denso_SmartmaintAI](https://github.com/Hoafng3107/Denso_SmartmaintAI), bản `87e755a`. Tổng quan, thẻ ca, thẻ máy và kho tri thức được nối với dữ liệu máy chủ của dự án này.
 
+Giao diện hiện dùng nền sáng, điểm nhấn đỏ DENSO và font Plus Jakarta Sans cục bộ. Người bảo trì có các mục **Tổng quan**, **Ca bảo trì**, **Kho tri thức**, **Bài học từ ca**. Menu chuyên gia có **Hỗ trợ hiện trường**, **Hồ sơ tham gia**, **Tri thức của tôi**; chuyên gia trưởng có **Kiểm duyệt tri thức**. Trên **Bài học từ ca**, tiêu đề phụ “Đề xuất của tôi” đã bỏ; tên các route nội bộ vẫn giữ để tương thích.
+
+Ba bài học/nguồn mẫu được tạo từ `fixtures/cases/cnc-knowledge-samples.json` qua `backend/demo_knowledge.py`, không khai báo thêm vào JavaScript. Chọn Nguyễn Minh để xem ba bài học của tác giả này. [Mã mẫu và cách nạp](../docs/guides/DENSO-DEMO-SAMPLE-DATA.md).
+
 ## Sửa file nào?
 
 | File/thư mục | Vai trò |

diff --git a/docs/guides/DENSO-DEMO-SAMPLE-DATA.md b/docs/guides/DENSO-DEMO-SAMPLE-DATA.md
@@ -28,7 +28,7 @@ Lệnh dùng cấu hình lưu trữ hiện tại trong `.env`. Trên Live Demo, 
 
 ### Bốn hồ sơ đang chờ xử lý
 
-Mở http://127.0.0.1:8001/, chọn Người bảo trì hoặc Chuyên gia, vào hệ thống. Nếu đang mở trang, tải lại để cập nhật danh sách hồ sơ. Các hồ sơ mới được cấp cho Nguyễn Minh và Trần Văn Hải. Giao diện prototype ở cổng 5500 dùng dữ liệu riêng trong trình duyệt, không tự nhận bộ hồ sơ backend này.
+Mở http://127.0.0.1:8001/, chọn Người bảo trì hoặc Chuyên gia, vào hệ thống rồi mở **Ca bảo trì** / **Hồ sơ tham gia**. Nếu đang mở trang, tải lại để cập nhật danh sách. Bốn hồ sơ đang chờ được cấp cho Nguyễn Minh và Trần Văn Hải. Dùng giao diện qua FastAPI để đọc/ghi database; không dùng Live Server ở cổng 5500 cho mục đích này.
 
 | Hồ sơ | Tình huống | Câu hỏi gợi ý | Nguồn |
 |---|---|---|---|

diff --git a/docs/FILE-INVENTORY.md b/docs/FILE-INVENTORY.md
@@ -33,6 +33,7 @@
 | `docs/assets/screenshots/case-workspace.png` | Ảnh thật hồ sơ CNC |
 | `docs/assets/screenshots/rag-answer.png` | Ảnh thật câu trả lời mẫu có citation |
 | `docs/assets/screenshots/knowledge-library.png` | Ảnh thật tri thức được duyệt/xuất bản |
+| `docs/assets/screenshots/case-lessons.png` | Ảnh giao diện Bài học từ ca, có 3 mẫu mô phỏng và dữ liệu kiểm thử |
 | `docs/assets/screenshots/dashboard.png` | Tổng quan hai cột với số liệu từ database |
 | `frontend/README.md` | Bản đồ module giao diện mới, thứ tự nạp và cách kiểm tra |
 | `frontend/prototype/visual-templates.js` | Mẫu hiển thị theo website Netlify, nhận dữ liệu từ API |
